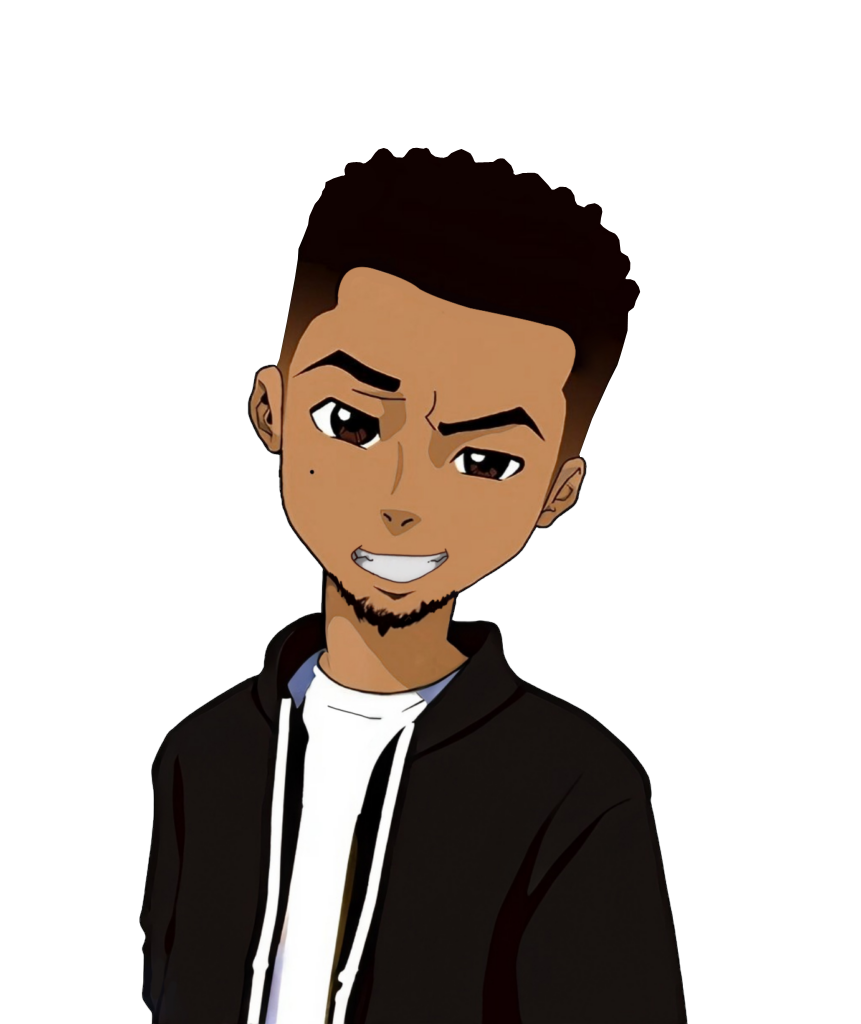
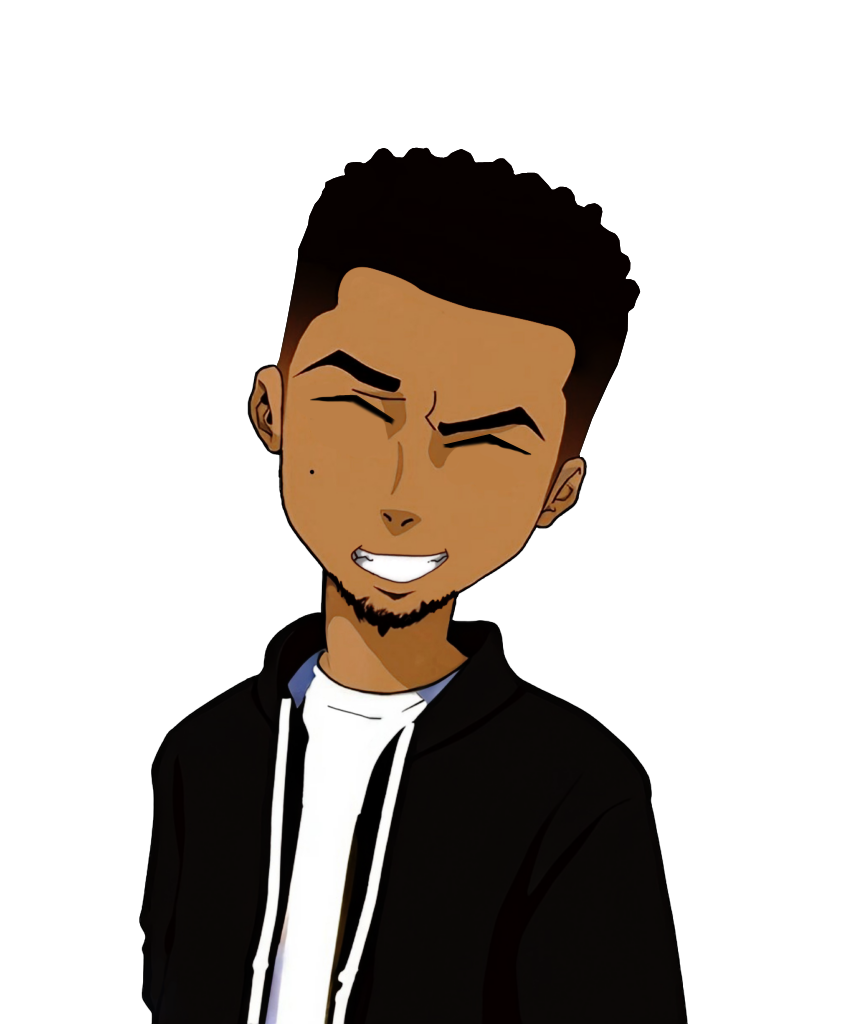
#09 - Animação nos olhos

Changed region(s): [[0.5134, 0.4062, 0.6341, 0.4688], [0.3624, 0.375, 0.453, 0.4375], [0.4228, 0.5312, 0.5134, 0.5938]]

diff --git a/assets/js/main.js b/assets/js/main.js
@@ -302,6 +302,9 @@ document.addEventListener('DOMContentLoaded', function() {
 
   // Inicializar Swiper para as habilidades
   loadSkills();
+  
+  // Inicializar o rastreamento ocular
+  initEyeTracking();
 
   // Preloader
   const preloader = document.querySelector('#preloader');
@@ -611,4 +614,74 @@ function setupSkillsAnimation() {
 
 function setupDarkModeToggle() {
   // Implementation of setupDarkModeToggle function
+}
+
+// Função para rastreamento ocular - com ajustes para movimento mais suave
+function initEyeTracking() {
+  const leftEye = document.getElementById('leftEye');
+  const rightEye = document.getElementById('rightEye');
+  
+  if (!leftEye || !rightEye) return;
+
+  function moveEyes(e) {
+    function calculateEyeMovement(eyeElement, sensitivity = 0.25) {
+      const eyeRect = eyeElement.getBoundingClientRect();
+      const eyeCenterX = eyeRect.left + eyeRect.width / 2;
+      const eyeCenterY = eyeRect.top + eyeRect.height / 2;
+
+      const angle = Math.atan2(e.clientY - eyeCenterY, e.clientX - eyeCenterX);
+      const maxMoveX = eyeRect.width * sensitivity;
+      const maxMoveY = eyeRect.height * sensitivity;
+      
+      let moveX = Math.cos(angle) * maxMoveX;
+      let moveY = Math.sin(angle) * maxMoveY;
+
+      moveX = Math.max(-maxMoveX, Math.min(maxMoveX, moveX));
+      moveY = Math.max(-maxMoveY, Math.min(maxMoveY, moveY));
+
+      return { moveX, moveY };
+    }
+
+    // Calcular movimento para cada olho
+    const rightEyeMovement = calculateEyeMovement(rightEye);
+    const leftEyeMovement = calculateEyeMovement(leftEye);
+    
+    // Aplicar movimento com transição suave
+    rightEye.querySelector('.pupil').style.transform = 
+      `translate(${rightEyeMovement.moveX}px, ${rightEyeMovement.moveY}px)`;
+    leftEye.querySelector('.pupil').style.transform = 
+      `translate(${leftEyeMovement.moveX}px, ${leftEyeMovement.moveY}px)`;
+  }
+
+  // Adicionar evento de movimento do mouse
+  document.addEventListener('mousemove', moveEyes);
+  
+  // Adicionar suporte para dispositivos móveis
+  document.addEventListener('touchmove', function(e) {
+    const touch = e.touches[0];
+    moveEyes(touch);
+  });
+  
+  // Animação de piscar ocasionalmente
+  function blinkEyes() {
+    if (!document.hidden) {
+      const originalLeftHeight = leftEye.style.height;
+      const originalRightHeight = rightEye.style.height;
+      
+      leftEye.style.height = '0px';
+      rightEye.style.height = '0px';
+      
+      setTimeout(() => {
+        leftEye.style.height = originalLeftHeight;
+        rightEye.style.height = originalRightHeight;
+      }, 200);
+    }
+    
+    // Piscar a cada 3-8 segundos
+    const nextBlink = 3000 + Math.random() * 5000;
+    setTimeout(blinkEyes, nextBlink);
+  }
+  
+  // Iniciar a animação de piscar após um pequeno atraso
+  setTimeout(blinkEyes, 2000);
 }

diff --git a/assets/css/style.css b/assets/css/style.css
@@ -527,19 +527,141 @@ input:checked + .slider:before {
 }
 
 .hero-avatar {
-  opacity: 0.8;
-  filter: grayscale(1);
+  filter: drop-shadow(2px 4px 6px black);
   position: absolute;
   bottom: -100px;
   right: -100px;
   width: 1000px;
   height: 1000px;
-  background-image: url('../img/avatar.webp');
+  background-image: url('../img/avatar.png');
   background-size: contain;
   background-position: bottom right;
   background-repeat: no-repeat;
-  z-index: 1;
+  opacity: 0.8;
+  z-index: 0;
   animation: fadeInRight 1.5s ease-out;
+}
+
+/* Estilos para os olhos animados */
+.eye {
+  position: absolute;
+  background: white;
+  display: flex;
+  justify-content: center;
+  align-items: center;
+  overflow: hidden;
+  transition: height 0.1s ease-out;
+  clip-path: polygon(50% 0%, 90% 25%, 90% 75%, 50% 100%, 10% 75%, 10% 25%);
+}
+
+.eye-border {
+  position: absolute;
+  width: 100%;
+  height: 100%;
+  background: white; /* Fundo do olho */
+  border: 3px solid black; /* Borda hexagonal */
+  clip-path: inherit; /* Herda o clip-path do pai */
+}
+
+.pupil {
+  position: absolute;
+  width: 120%;
+  height: 120%;
+  background: url('../img/pupila1.png') no-repeat center;
+  background-size: contain;
+  transition: transform 0.15s ease-out;
+}
+
+#leftEye {
+  width: 96px;
+    height: 34px;
+    top: 393px;
+    right: 452px;
+    transform: rotate(15deg);
+}
+
+#rightEye {
+  width: 90px;
+  height: 30px;
+  top: 432px;
+  right: 321px;
+  transform: rotate(5deg);
+}
+
+/* Ajustes responsivos para os olhos */
+@media (max-width: 1200px) {
+  .hero-avatar {
+    bottom: -100px;
+    right: -338px;
+    width: 1000px;
+    height: 1000px;
+  }
+  #leftEye {
+    width: 96px;
+      height: 34px;
+      top: 393px;
+      right: 452px;
+      transform: rotate(15deg);
+  }
+  
+  #rightEye {
+    width: 90px;
+    height: 30px;
+    top: 432px;
+    right: 321px;
+    transform: rotate(5deg);
+  }
+}
+
+@media (max-width: 991px) {
+  .hero-avatar {
+    bottom: -100px;
+    right: -338px;
+    width: 1000px;
+    height: 1000px;
+  }
+  
+  #leftEye {
+    width: 96px;
+      height: 34px;
+      top: 393px;
+      right: 452px;
+      transform: rotate(15deg);
+  }
+  
+  #rightEye {
+    width: 90px;
+    height: 30px;
+    top: 432px;
+    right: 321px;
+    transform: rotate(5deg);
+  }
+}
+
+@media (max-width: 768px) {
+  .hero-avatar {
+    bottom: -100px;
+    right: -338px;
+    width: 1000px;
+    height: 1000px;
+  }
+  
+  #leftEye {
+    width: 96px;
+      height: 34px;
+      top: 393px;
+      right: 452px;
+      transform: rotate(15deg);
+  }
+  
+  #rightEye {
+    width: 90px;
+    height: 30px;
+    top: 432px;
+    right: 321px;
+    transform: rotate(5deg);
+  }
+  
 }
 
 #hero .hero-container {

diff --git a/index.html b/index.html
@@ -72,7 +72,14 @@
 
     <!-- ======= Hero Section ======= -->
     <section id="hero" class="d-flex flex-column justify-content-center align-items-center">
-      <div class="hero-avatar"></div>
+      <div class="hero-avatar">
+        <div class="eye" id="leftEye">
+          <div class="pupil"></div>
+        </div>
+        <div class="eye" id="rightEye">
+          <div class="pupil"></div>
+        </div>
+      </div>
       <div class="hero-container" data-aos="fade-in">
         <h1>André Matos</h1>
         <div class="text-animation-container">
@@ -92,8 +99,8 @@
           <a href="https://www.youtube.com/@AndreMTS" target="_blank" class="youtube"><i class="bx bxl-youtube"></i></a>
         </div>
         <div class="hero-buttons mt-4">
-          <a href="#about" class="btn-get-started scrollto btn-cv">Conheça meu trabalho</a>
-          <a href="https://www.linkedin.com/in/andremts/" target="_blank" class="btn-cv">Perfil público <i class="bx bi-linkedin"></i></a>
+          <a href="#about" class="btn-get-started scrollto">Conheça meu trabalho</a>
+          <a href="www.linkedin.com/in/andremts" class="btn-cv">Perfil público <i class="bx bi-linkedin"></i></a>
         </div>
       </div>
     </section><!-- End Hero -->
